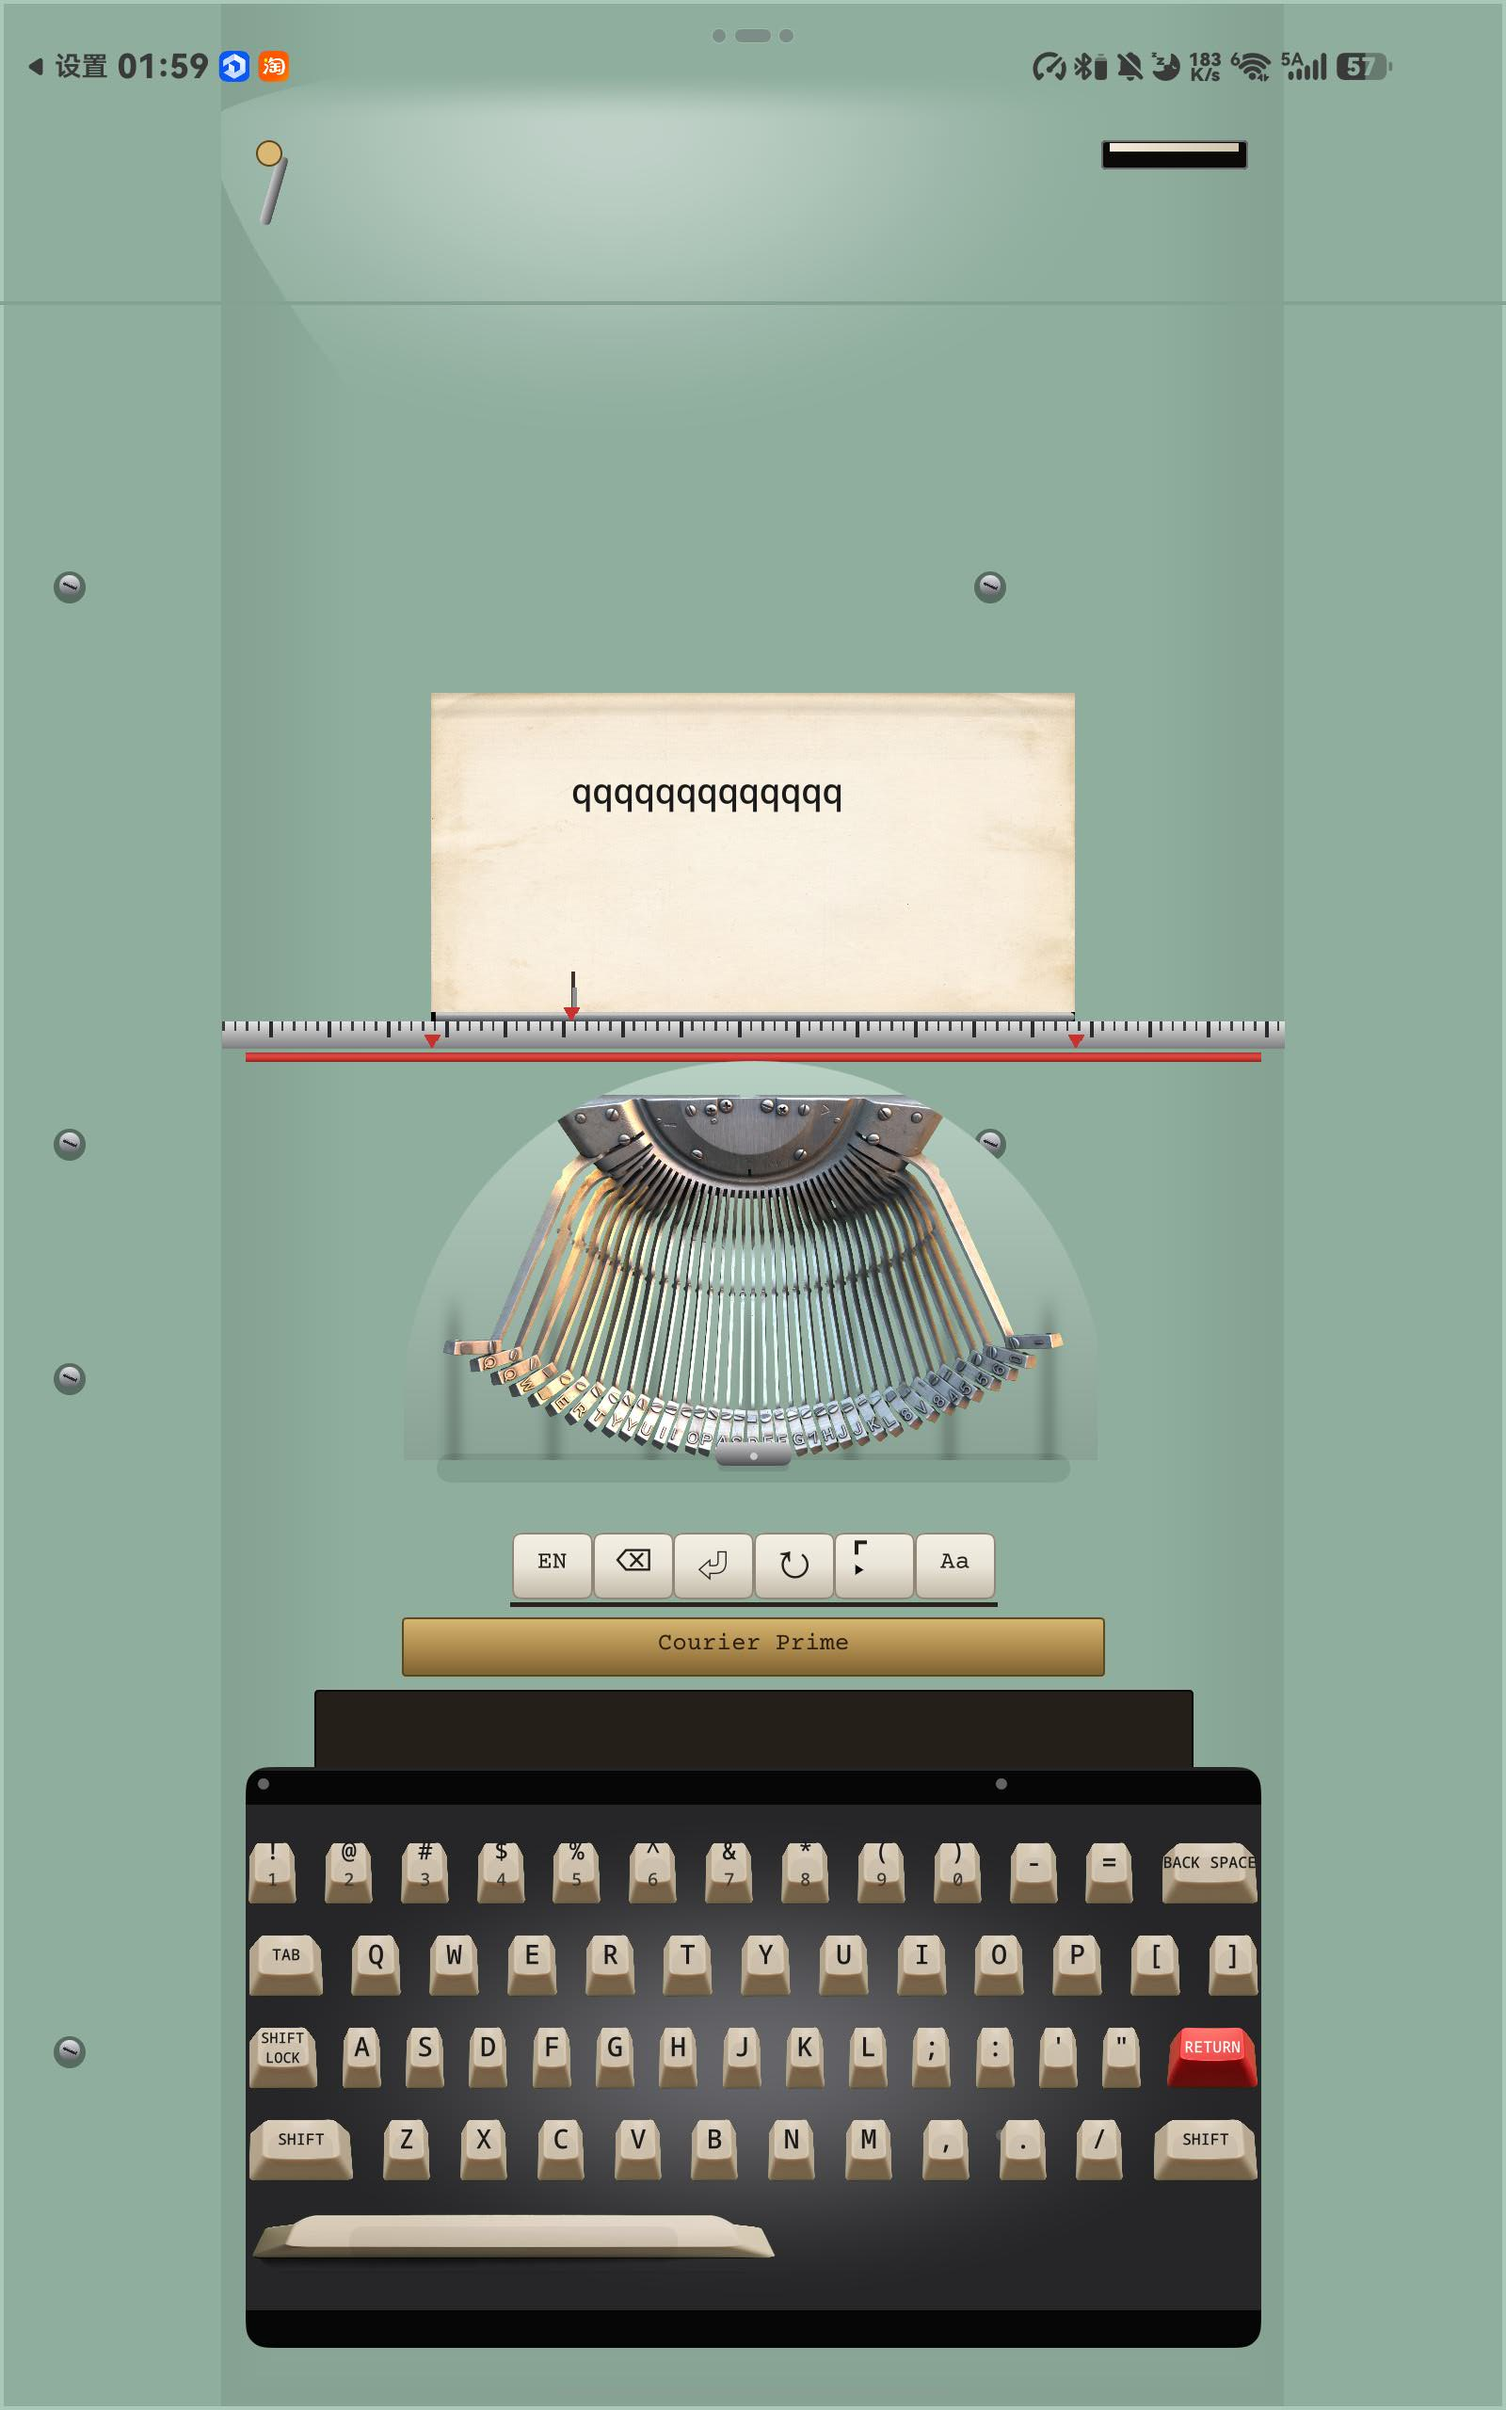
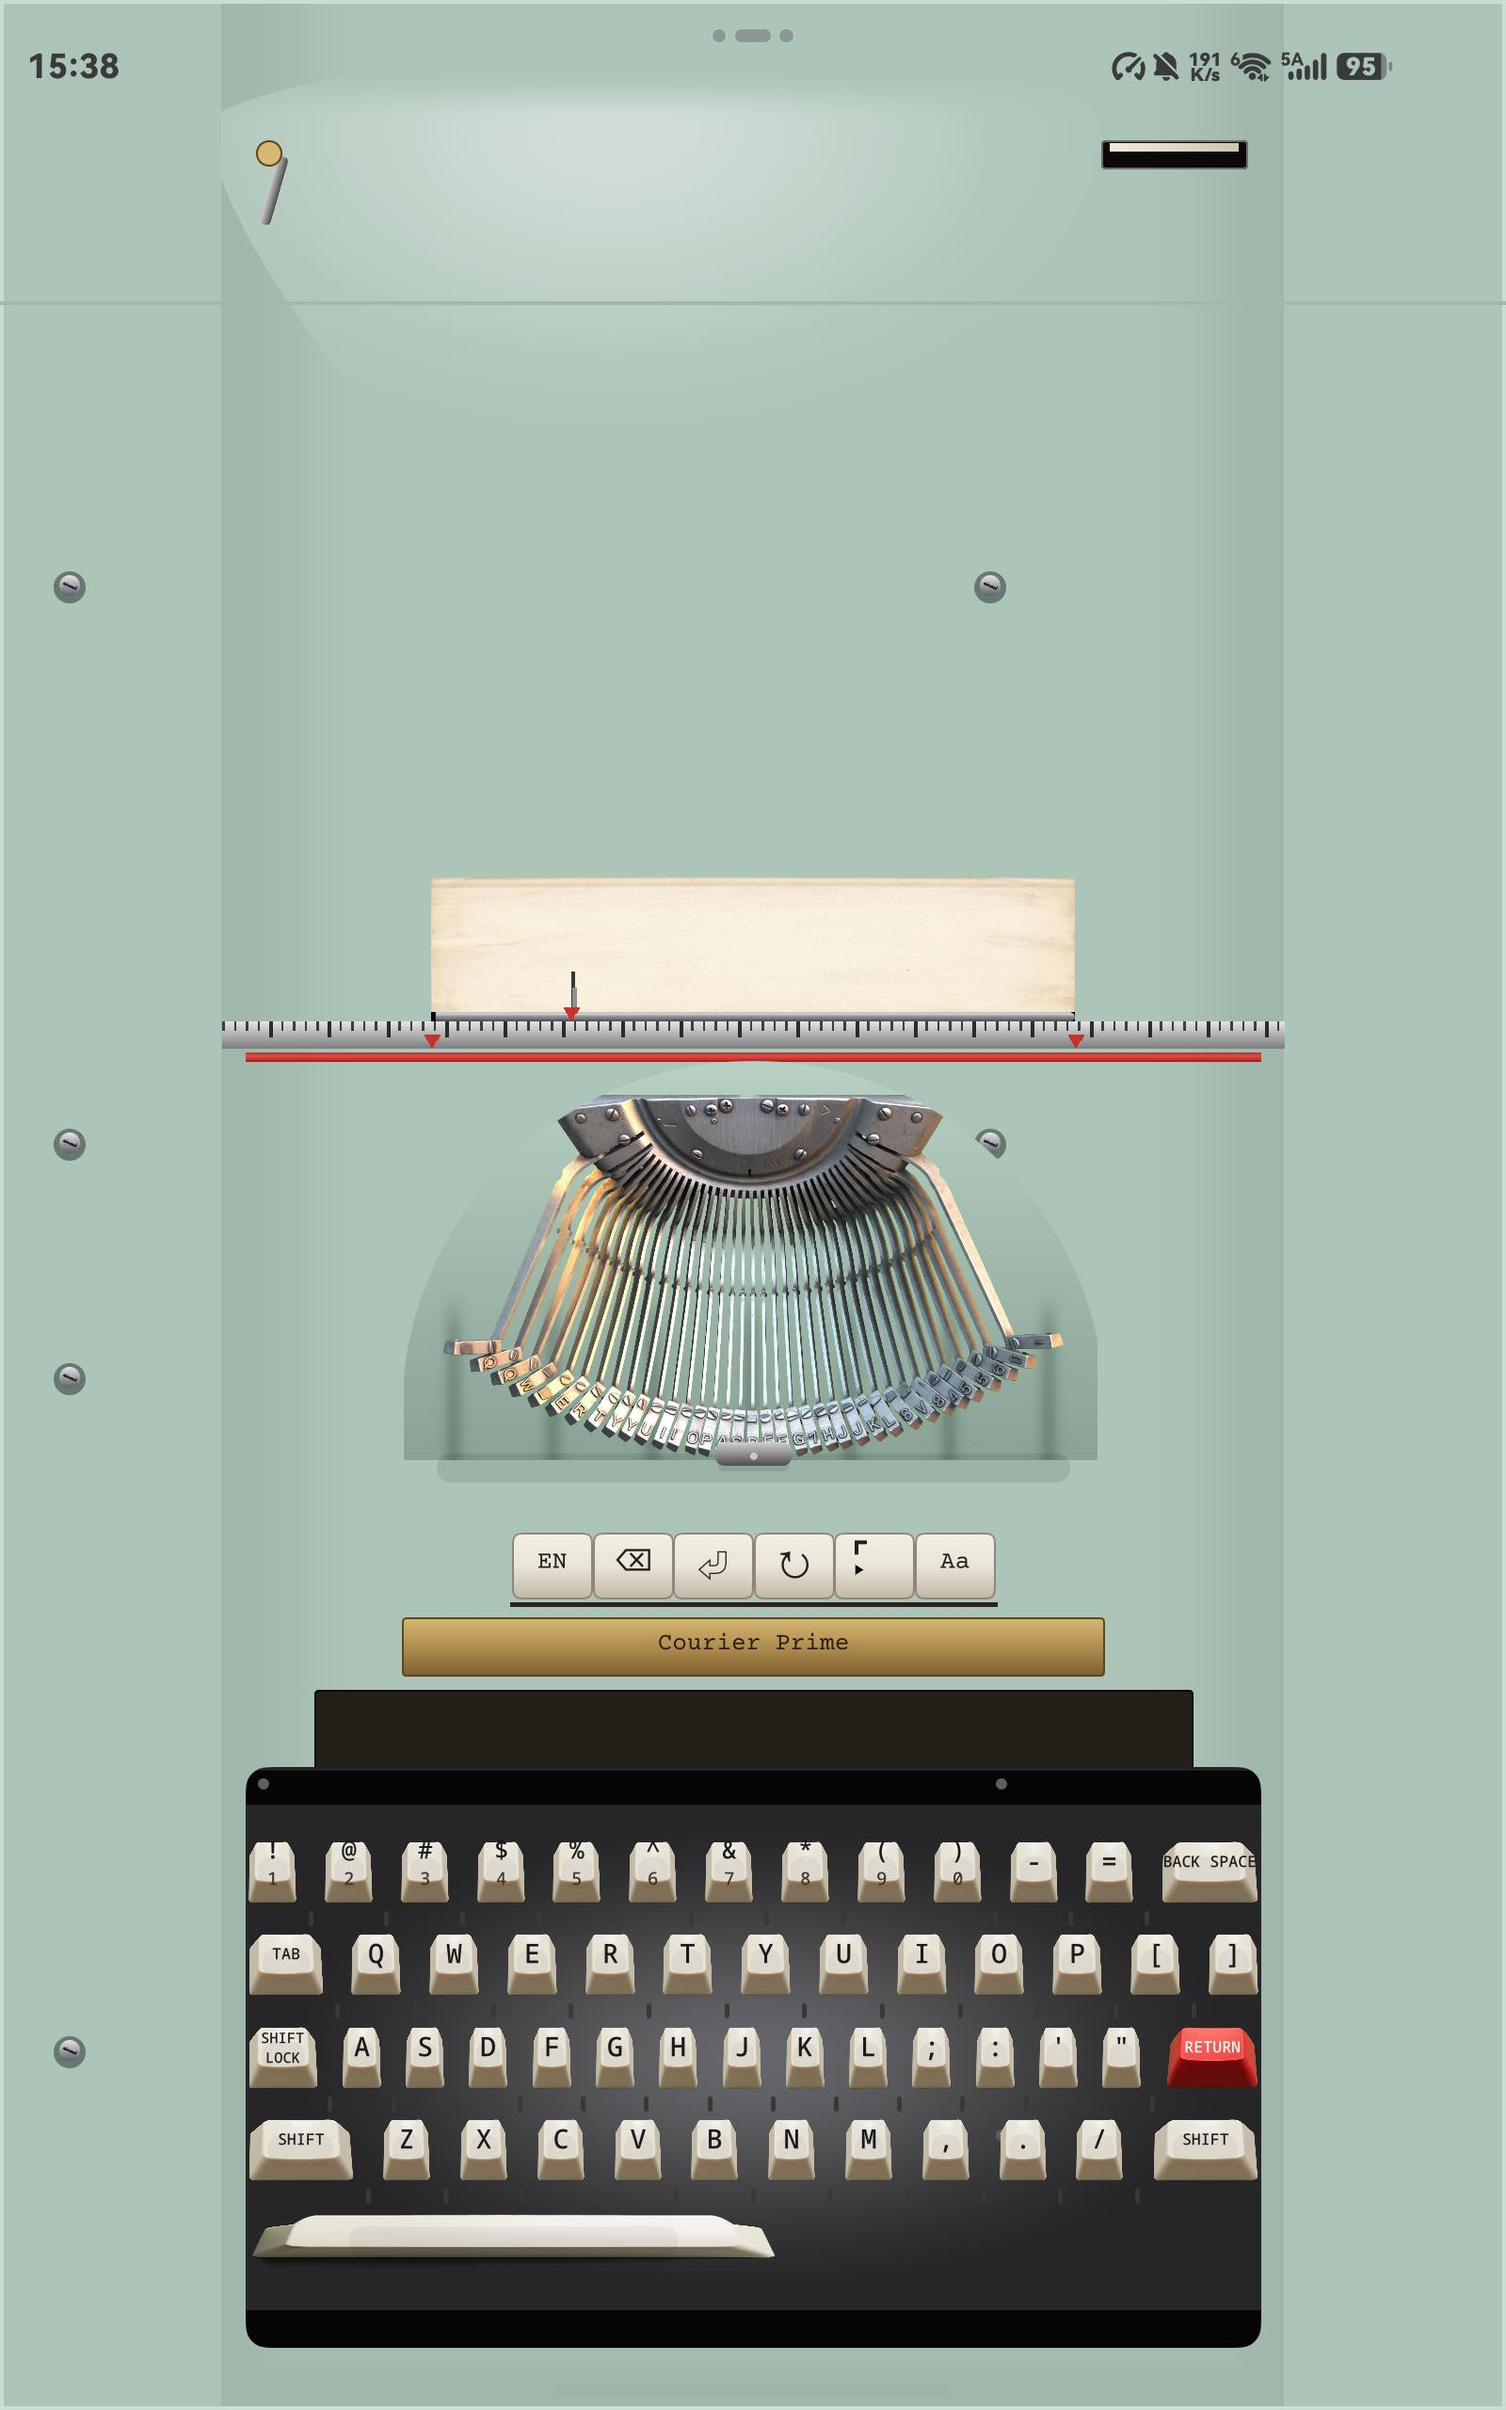
批64 阶段1 证据刷新：按当前构建重拍 2280/2287
- 拍前清到 1 行空纸（parts 340.7/64.5、p35_paper 153px = 64.4vp），与旧图同状态
- 2280 全貌：舞台全宽、机器 475.3 居中、纸高 64.4vp（旧图为纸高未修前满纸态）
- 2287 键盘：键帽固定＋SpaceBetween＋49 根键杆（12+12+14+11）
- 自检 docs/evidence/p36/selfcheck.md 第十八步

diff --git a/docs/evidence/p36/selfcheck.md b/docs/evidence/p36/selfcheck.md
@@ -2414,3 +2414,18 @@ F 项里打字主链路（落字/回车/退格/换纸/功能行）成立；**F-1
 **口径更正（写清，避免下轮误用）**：`placed()`／`rowWidths()` 里的 `KB_HGAP` 与 `KB_W=338.7`
 现在只作「设计表验算」与 `CapDef` 坐标记录，**不再决定视觉排布**——视觉行宽＝`widthVp − 2×KB_X0`，
 视觉间距＝均分 gap。旧注释「逐行总宽 ≤338.7vp」是设计基准，不是实际像素宽。
+
+### 批 64 阶段 1 第十八步：按当前构建重拍 2280／2287（键杆与纸高修复后的证据刷新）
+
+- 拍前把文档清到 **1 行**（14 次退格，间隔 1.05s）：`parts 340.7／64.5`、
+  `p35_paper (458,932)-(1142,1085)` ＝ 153px ＝ **64.4vp**，与旧图同状态，便于视觉对比。
+- `docs/shots/2280_p64_batch_full.png`（覆盖重拍）：舞台全宽、机器宽 475.3 居中、
+  纸高 64.4vp（1 行小纸贴横尺上方）——旧图是纸高未修前的满纸态。
+- `docs/shots/2287_p64_keyboard.png`（覆盖重拍）：键帽固定 21.6×27.6、`SpaceBetween` 均分间距、
+  **49 根键杆**（新，12+12+14+11）。
+- 八区 rect 与改前一致：`p26_stage (0,0)-(1600,2560)`、`p35_carriage (236,133)-(1365,1127)`、
+  `p25_key_grid (236,1877)-(1365,2494)`、`p33_key_well (261,1877)-(1340,2494)`。
+- 截图亮度 164.6（亮屏）；`stems rowW=451.3 n0=12 n1=12 n2=14 n3=11`。
+
+**本轮结束时的设备状态**：停在打字页、**1 行空纸**、机型 `1920s-upright`、`cn_engine=builtin`；
+重启会回到 12 行空纸（换纸不落盘，见第十六步待办——未拍板前不动）。
